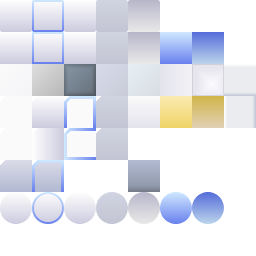
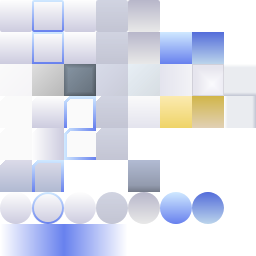
- Les adorners Default et LookMetal savent dessiner PaintProgressIndicator dans tous les modes.
git-svn-id: https://svn.opac.ch/svn/cr/branches/vs2005/Epsitec.Cresus@8405 787ff09c-d2b5-7842-b444-8dd0a418631d

Changed region(s): [[0.0312, 0.875, 0.4688, 1.0]]

diff --git a/Epsitec.Cresus/Common.Dialogs/WorkInProgressDialog.cs b/Epsitec.Cresus/Common.Dialogs/WorkInProgressDialog.cs
@@ -176,45 +176,45 @@ namespace Epsitec.Common.Dialogs
 		{
 			this.window = new Window ();
 
-			this.window.Text              = this.dialogTitle;
-			this.window.Name              = "Dialog";
-			this.window.ClientSize        = new Drawing.Size (320, 200);
-			this.window.PreventAutoClose  = true;
+			this.window.Text             = this.dialogTitle;
+			this.window.Name             = "Dialog";
+			this.window.ClientSize       = new Drawing.Size (400, 150);
+			this.window.PreventAutoClose = true;
 
 			CommandDispatcher.SetDispatcher (this.window, this.privateDispatcher);
 			CommandContext.SetContext (this.window, this.privateContext);
 
-			this.window.MakeFramelessWindow ();
-			this.window.MakeFloatingWindow ();
+			//?this.window.MakeFramelessWindow ();
+			//?this.window.MakeFloatingWindow ();
+			this.window.MakeFixedSizeWindow();
+			this.window.MakeSecondaryWindow();
 
 			FrameBox frame = new FrameBox (this.window.Root);
-			
 			frame.DrawFullFrame = true;
 			frame.Dock = DockStyle.Fill;
 			frame.ContainerLayoutMode = ContainerLayoutMode.VerticalFlow;
 
+#if false
 			StaticText textTitle = new StaticText (frame);
-
 			textTitle.Dock = DockStyle.Stacked;
 			textTitle.PreferredHeight = 32;
 			textTitle.ContentAlignment = Epsitec.Common.Drawing.ContentAlignment.MiddleCenter;
 			textTitle.Text = string.Concat (@"<font size=""120%"">", this.dialogTitle, @"</font>");
+#endif
 
 			this.operationMessageWidget = new StaticText (frame);
+			this.operationMessageWidget.PreferredHeight = 30;
 			this.operationMessageWidget.Dock = DockStyle.Stacked;
-			this.operationMessageWidget.PreferredHeight = 32;
-			this.operationMessageWidget.Margins = new Epsitec.Common.Drawing.Margins (4, 4, 4, 4);
+			this.operationMessageWidget.Margins = new Epsitec.Common.Drawing.Margins (10, 10, 15, 0);
+
+			this.progressMessageWidget = new StaticText (frame);
+			this.progressMessageWidget.Dock = DockStyle.Stacked;
+			this.progressMessageWidget.Margins = new Epsitec.Common.Drawing.Margins (10, 10, 0, 0);
 
 			this.progressIndicator = new ProgressIndicator (frame);
 			this.progressIndicator.ProgressStyle = this.progressIndicatorStyle;
 			this.progressIndicator.Dock = DockStyle.Stacked;
-			this.progressIndicator.PreferredHeight = 20;
-			this.progressIndicator.Margins = new Epsitec.Common.Drawing.Margins (4, 4, 4, 4);
-
-			this.progressMessageWidget = new StaticText (frame);
-			this.progressMessageWidget.Dock = DockStyle.Stacked;
-			this.progressMessageWidget.PreferredHeight = 32;
-			this.progressMessageWidget.Margins = new Epsitec.Common.Drawing.Margins (4, 4, 4, 4);
+			this.progressIndicator.Margins = new Epsitec.Common.Drawing.Margins (10, 10, 15, 0);
 
 			this.startTicks = System.Environment.TickCount;
 
@@ -243,7 +243,7 @@ namespace Epsitec.Common.Dialogs
 						progressValue    = this.progressValue;
 					}
 
-					this.operationMessageWidget.Text = operationMessage;
+					this.operationMessageWidget.Text = string.Concat(@"<font size=""150%"">", operationMessage, "</font>");
 					this.progressMessageWidget.Text = progressMessage;
 
 					switch (this.progressIndicatorStyle)

diff --git a/Epsitec.Cresus/Common.Widgets/Adorners/LookMetal.cs b/Epsitec.Cresus/Common.Widgets/Adorners/LookMetal.cs
@@ -1085,11 +1085,52 @@ namespace Epsitec.Common.Widgets.Adorners
 			graphics.Rasterizer.AddOutline(path, 1);
 			graphics.RenderSolid(this.colorBorder);
 
-			if (progress != 0)
+			rInside.Deflate(3);
+			if (style == ProgressIndicatorStyle.UnknownDuration)
 			{
-				rInside.Deflate(2);
-				rInside.Width *= progress;
-				this.PaintImageButton(graphics, rInside, 13);
+				double x = rInside.Width*progress;
+				double w = rInside.Width*0.4;
+
+				this.PaintProgressUnknow(graphics, rInside, w, x-w);
+				this.PaintProgressUnknow(graphics, rInside, w, x-w+rInside.Width);
+			}
+			else
+			{
+				if (progress != 0)
+				{
+					rInside.Width *= progress;
+					this.PaintImageButton(graphics, rInside, 13);
+				}
+			}
+
+			rInside = rect;
+			rInside.Deflate(3.5);
+			graphics.AddRectangle(rInside);
+			graphics.RenderSolid(this.colorBorder);
+		}
+
+		protected void PaintProgressUnknow(Drawing.Graphics graphics, Drawing.Rectangle rect, double w, double x)
+		{
+			Drawing.Rectangle fill = new Drawing.Rectangle(rect.Left+x, rect.Bottom, w, rect.Height);
+			Drawing.Rectangle icon = new Drawing.Rectangle(0, 0, 32*4, 32);
+
+			if (fill.Left < rect.Left)
+			{
+				double over = (rect.Left-fill.Left)/w;
+				icon.Left += icon.Width*over;
+				fill.Left = rect.Left;
+			}
+
+			if (fill.Right > rect.Right)
+			{
+				double over = (fill.Right-rect.Right)/w;
+				icon.Width -= icon.Width*over;
+				fill.Right = rect.Right;
+			}
+
+			if (fill.Width > 0)
+			{
+				graphics.PaintImage(this.bitmap, fill, icon);
 			}
 		}
 

diff --git a/Epsitec.Cresus/Common.Widgets/Adorners/Default.cs b/Epsitec.Cresus/Common.Widgets/Adorners/Default.cs
@@ -865,6 +865,49 @@ namespace Epsitec.Common.Widgets.Adorners
 												ProgressIndicatorStyle style,
 												double progress)
 		{
+			this.PaintL(graphics, rect, this.colorControlDarkDark, this.Opposite(Direction.Up));
+			this.PaintL(graphics, rect, this.colorControlLightLight, Direction.Up);
+
+			Drawing.Rectangle rInside = rect;
+			rInside.Deflate(2);
+			if (style == ProgressIndicatorStyle.UnknownDuration)
+			{
+				double x = rInside.Width*progress;
+				double w = rInside.Width*0.2;
+
+				this.PaintProgressUnknow(graphics, rInside, w, x-w);
+				this.PaintProgressUnknow(graphics, rInside, w, x-w+rInside.Width);
+			}
+			else
+			{
+				if (progress != 0)
+				{
+					rInside.Width *= progress;
+					graphics.AddFilledRectangle(rInside);
+					graphics.RenderSolid(this.colorCaption);
+				}
+			}
+		}
+
+		protected void PaintProgressUnknow(Drawing.Graphics graphics, Drawing.Rectangle rect, double w, double x)
+		{
+			Drawing.Rectangle fill = new Drawing.Rectangle(rect.Left+x, rect.Bottom, w, rect.Height);
+
+			if (fill.Left < rect.Left)
+			{
+				fill.Left = rect.Left;
+			}
+
+			if (fill.Right > rect.Right)
+			{
+				fill.Right = rect.Right;
+			}
+
+			if (fill.Width > 0)
+			{
+				graphics.AddFilledRectangle(fill);
+				graphics.RenderSolid(this.colorCaption);
+			}
 		}
 
 		public override void PaintGroupBox(Drawing.Graphics graphics,

diff --git a/Epsitec.Cresus/Common.Dialogs.Tests/WorkInProgressDialogTest.cs b/Epsitec.Cresus/Common.Dialogs.Tests/WorkInProgressDialogTest.cs
@@ -23,7 +23,8 @@ namespace Epsitec.Common.Dialogs
 			};
 
 			Epsitec.Common.Support.Implementation.FileProvider.DefineGlobalProbingPath (string.Join (";", paths));
-			Epsitec.Common.Widgets.Adorners.Factory.SetActive ("LookRoyale");
+			//?Epsitec.Common.Widgets.Adorners.Factory.SetActive ("LookMetal");
+			Epsitec.Common.Widgets.Adorners.Factory.SetActive ("Default");
 			Epsitec.Common.Document.Engine.Initialize ();
 		}
 

diff --git a/Epsitec.Cresus/Common.Widgets/ProgressIndicator.cs b/Epsitec.Cresus/Common.Widgets/ProgressIndicator.cs
@@ -53,9 +53,6 @@ namespace Epsitec.Common.Widgets
 		protected override void PaintBackgroundImplementation(Graphics graphics, Rectangle clipRect)
 		{
 			IAdorner adorner = Widgets.Adorners.Factory.Active;
-			WidgetPaintState state = this.PaintState;
-			Rectangle box = this.Client.Bounds;
-
 			adorner.PaintProgressIndicator(graphics, this.Client.Bounds, this.progressStyle, this.progressValue);
 		}
 
